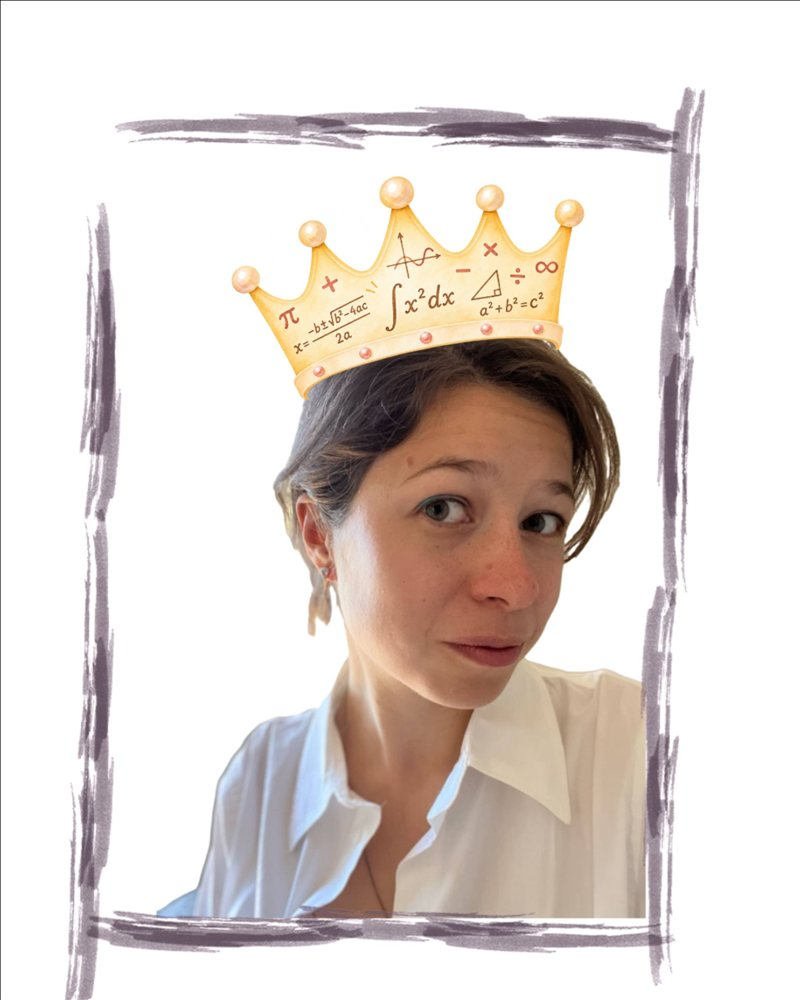
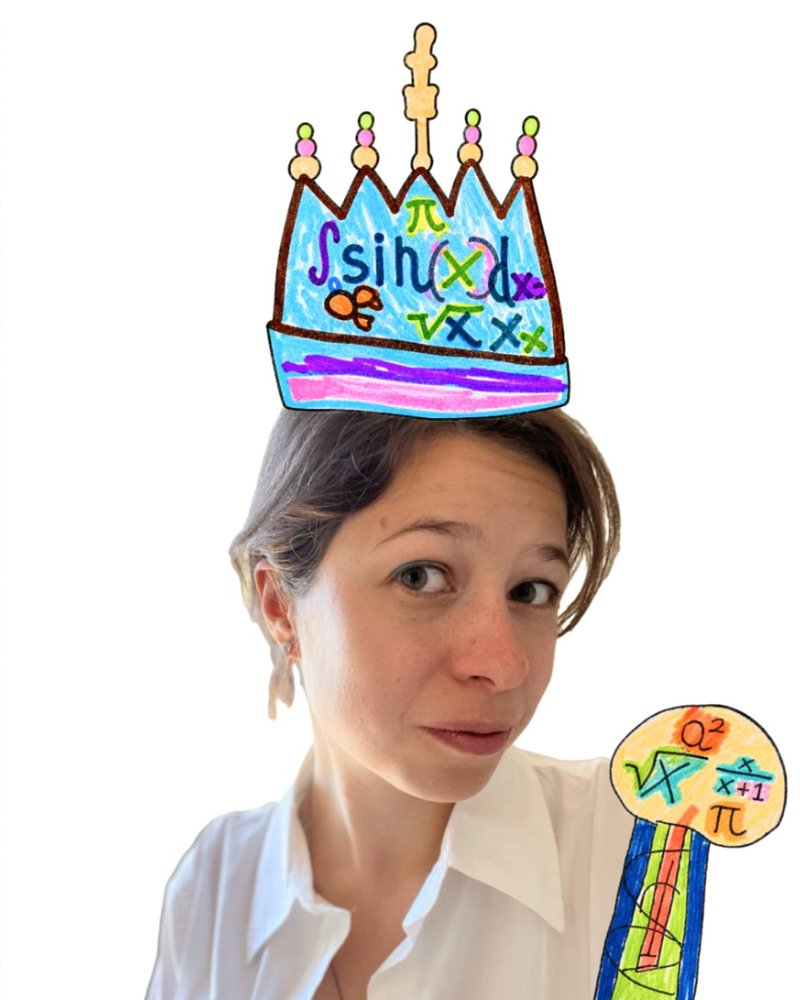
ок

diff --git a/src/styles/global.css b/src/styles/global.css
@@ -265,7 +265,7 @@ footer nav, .footer-contacts { display: flex; flex-wrap: wrap; gap: .25rem 1.25r
 @media (min-width: 48rem) {
   .library-about { grid-template-columns: 3fr 2fr; gap: 3rem; align-items: center; }
   .library-about .stats { grid-template-columns: 1fr; }
-  .teachers { grid-template-columns: repeat(3, 1fr); max-width: none; }
+  .teachers { grid-template-columns: repeat(2, 1fr); max-width: none; }
   .event:has(img) { grid-template-columns: 16rem 1fr; }
   .photo-grid { grid-template-columns: repeat(3, 1fr); }
   .hero { padding: 6rem 0; }
@@ -278,6 +278,7 @@ footer nav, .footer-contacts { display: flex; flex-wrap: wrap; gap: .25rem 1.25r
 }
 
 @media (min-width: 60rem) {
+  .teachers { grid-template-columns: repeat(4, 1fr); }
   .cards { grid-template-columns: repeat(3, 1fr); }
 }
 

diff --git a/README.md b/README.md
@@ -38,7 +38,7 @@ The business is Biblioteka, a library offering children's classes in Edinburgh, 
 | Библиотека | `/biblioteka/` | About, loan rules, where and when, catalogue | Photos (`public/library/`), numbers, loan rules, FAQ and a link to the Google Sheets catalogue done; where and when is a placeholder |
 | Взрослым | `/vzroslym/` | Book club, adult classes, hosting events | Book club «Литературный Эдинбург» done with six photos with no recognisable faces (`public/adults/`) and a call to host adult events in the library, but its meeting time, place, price and how to join are missing; adult classes are a placeholder |
 | Мероприятия | `/meropriyatiya/` | Upcoming and past events | No upcoming events yet (placeholder); three past events, newest first: the cults lecture on 8 November 2026, the biologist lecture and the toy swap |
-| О нас | `/o-nas/` | Story, approach, teachers, contacts | Done; three teachers for now, more to come |
+| О нас | `/o-nas/` | Story, approach, teachers, contacts | Done; four people for now (three teachers and Алёна, the library manager), more to come |
 
 ## Planned free services
 - Schedule display: tables on the site, or an embedded Google Calendar if someone without git access updates the schedule
